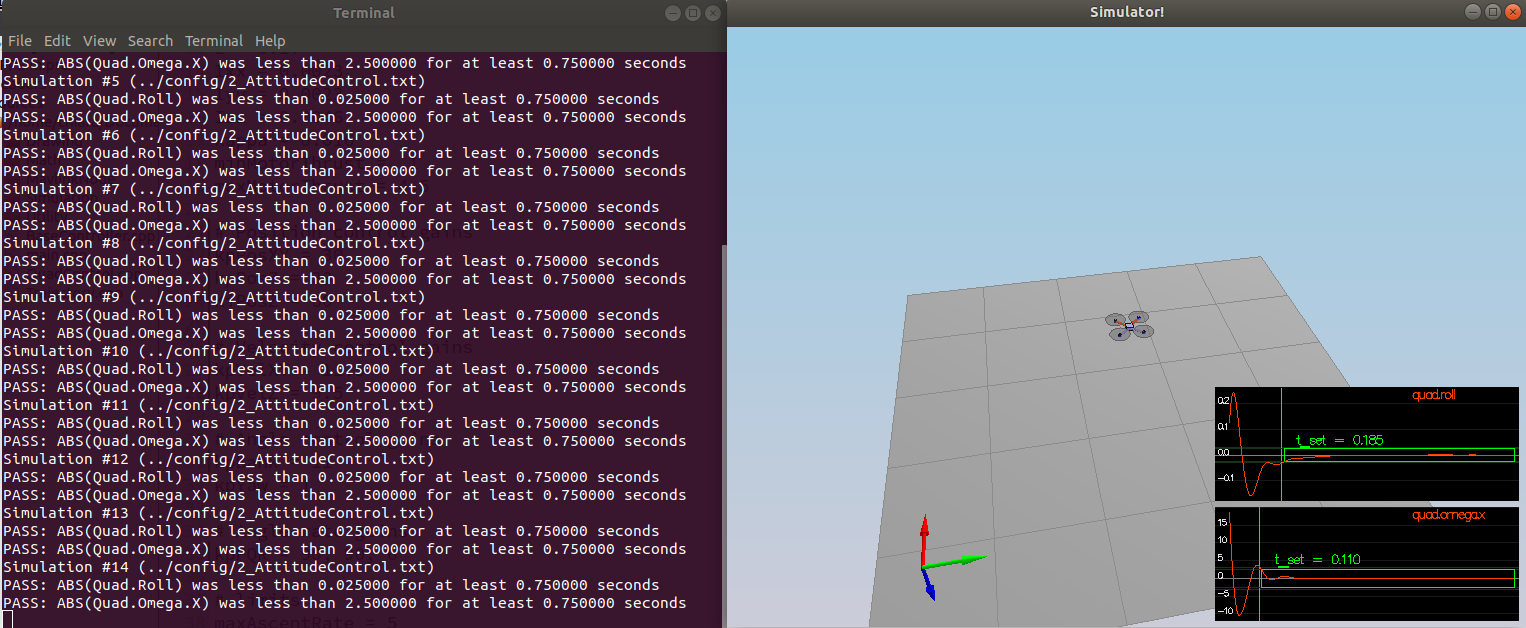
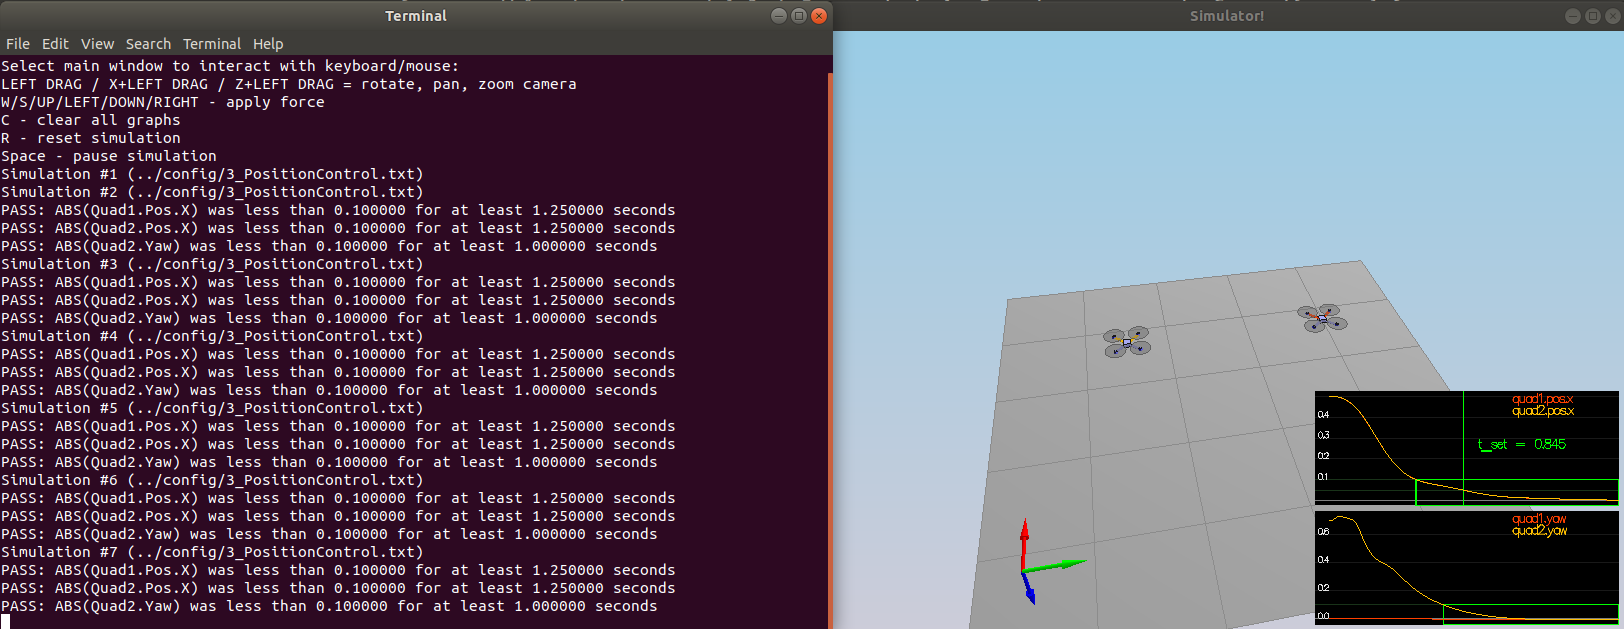
Implementing yaw control and passing scenario 3

diff --git a/src/QuadControl.cpp b/src/QuadControl.cpp
@@ -295,6 +295,21 @@ float QuadControl::YawControl(float yawCmd, float yaw)
   float yawRateCmd=0;
   ////////////////////////////// BEGIN STUDENT CODE ///////////////////////////
 
+  float yaw_c_2_pi = 0;
+  if ( yawCmd > 0 ) {
+    yaw_c_2_pi = fmodf(yawCmd, 2*F_PI);
+  }
+  else {
+    yaw_c_2_pi = -fmodf(-yawCmd, 2*F_PI);
+  }
+  float err = yaw_c_2_pi - yaw;
+  if ( err > F_PI ) {
+    err -= 2*F_PI;
+  }
+  if ( err < -F_PI ) {
+    err += 2*F_PI;
+  }
+  yawRateCmd = kpYaw * err;
 
   /////////////////////////////// END STUDENT CODE ////////////////////////////
 

diff --git a/src/main.cpp b/src/main.cpp
@@ -38,8 +38,8 @@ void OnTimer(int v);
 
 vector<QuadcopterHandle> CreateVehicles();
 //string _scenarioFile="../config/1_Intro.txt";
-string _scenarioFile="../config/2_AttitudeControl.txt";
-//string _scenarioFile="../config/3_PositionControl.txt";
+//string _scenarioFile="../config/2_AttitudeControl.txt";
+string _scenarioFile="../config/3_PositionControl.txt";
 //string _scenarioFile="../config/4_Nonidealities.txt";
 //string _scenarioFile="../config/5_TrajectoryFollow.txt";
 
